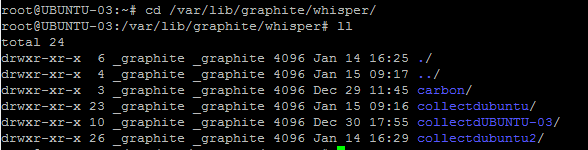
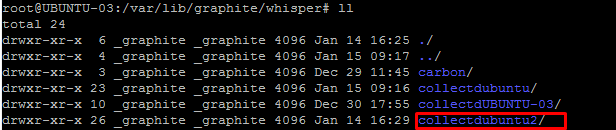
add deleting plugin

diff --git a/Huong_dan_xoa_hien_thi_tren_graphite.md b/Huong_dan_xoa_hien_thi_tren_graphite.md
@@ -8,4 +8,38 @@ Trong trường hợp người dùng không muốn theo dõi hoạt động củ
  /var/lib/graphite/whisper
  ll
  ```
- !(/images/huongdan_xoamay1.png)
+ 
+ Kết quả: 
+ ![](/images/huongdan_xoamay1.png)
+ 
+ Sau đó dùng lệnh rm -rf để xóa máy người dùng muốn, ở đây mình xóa máy collectubuntu2
+ 
+ ```sh
+  rm -rf collectdubuntu2
+ ```
+ 
+ Kiểm tra lại số máy:
+ 
+ ![](/images/huongdan_xoamay2.png)
+ 
+#### 2. Xóa một plugin.
+
+Tương tự như xóa một máy, người dùng vào thư mục /var/lib/graphite/whisper và vào một máy mà người dùng muốn xóa plugin:
+
+```sh
+cd /var/lib/graphite/whisper/collectdubuntu/
+ll
+```
+Kết quả:
+
+![](/images/huongdan_xoaplugin1.png)
+
+Dùng lệnh rm -rf để xóa plugin muốn xóa, ở đây mình xóa *users plugin*
+
+```sh 
+	rm -rf users
+```
+
+Kiểm tra lại plugin
+
+![](/images/huongdan_xoaplugin2.png)
